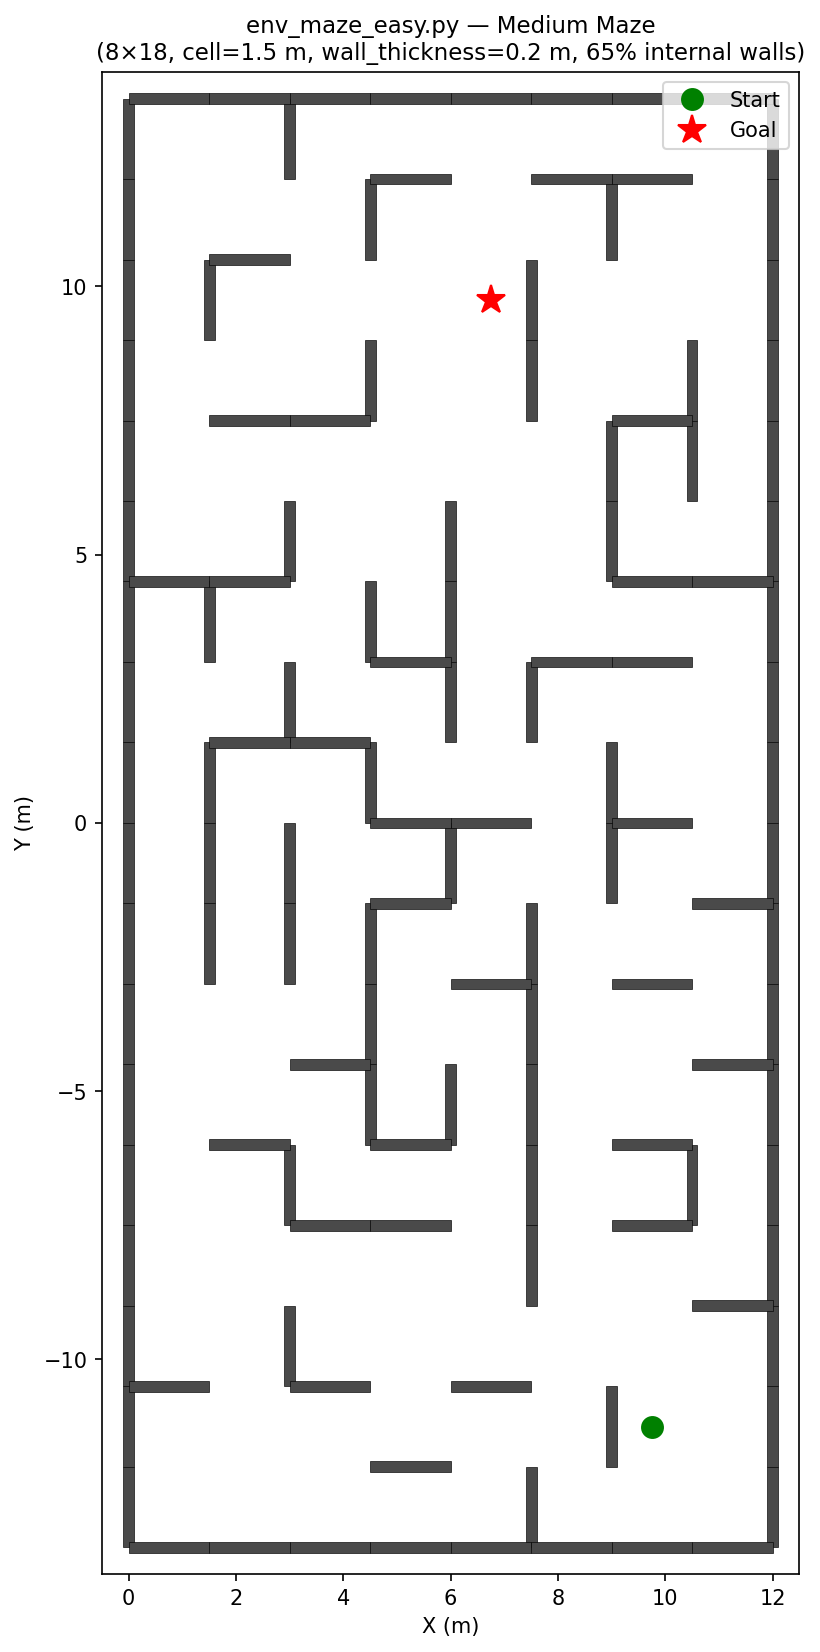
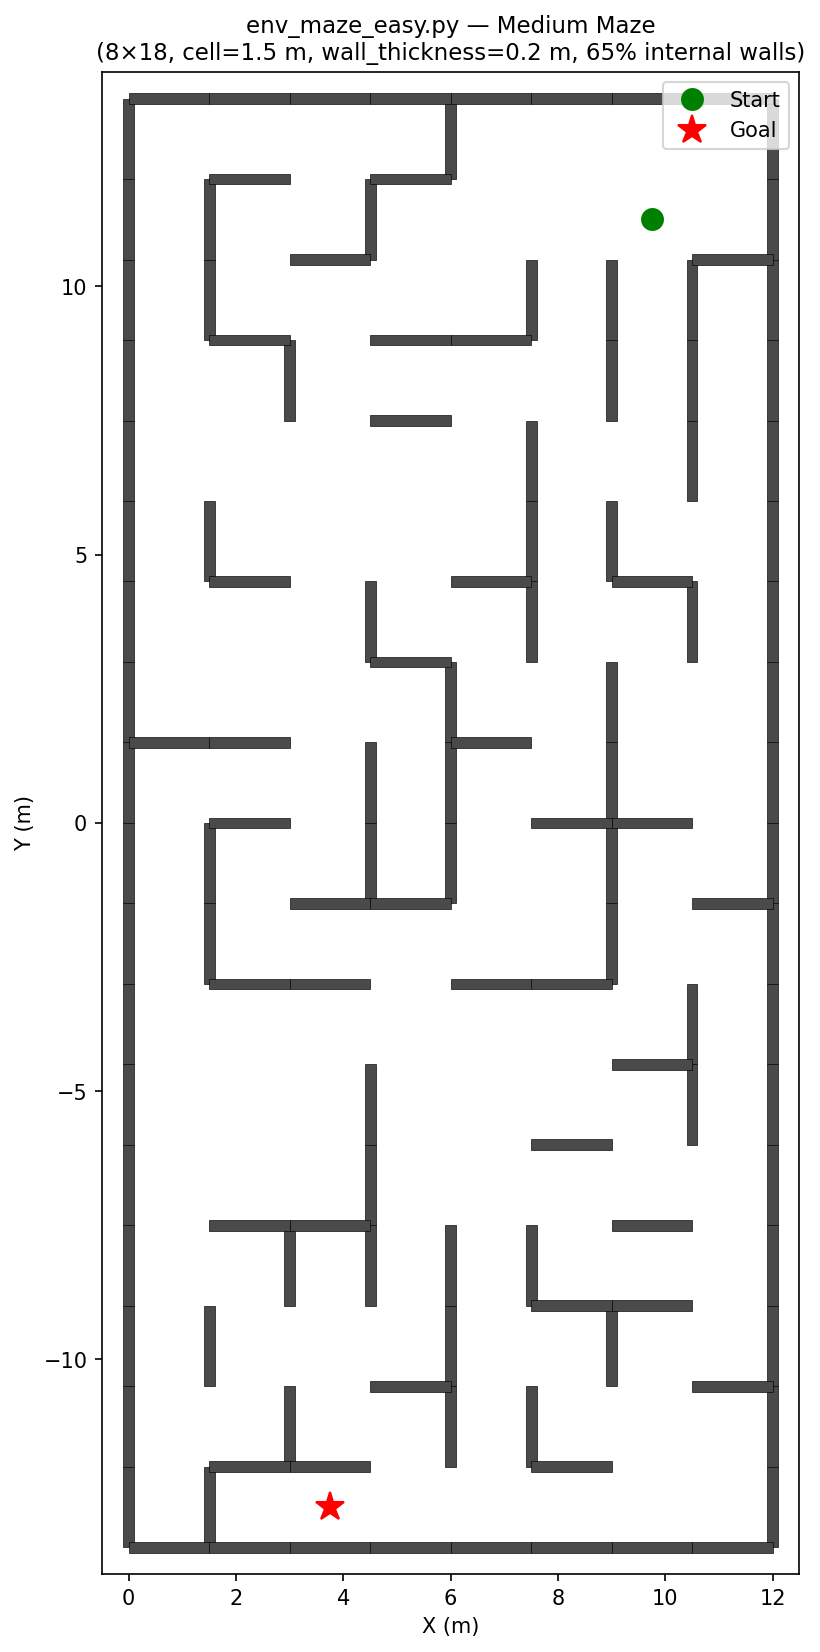
代码5.1

diff --git a/mmgj_transformer.py b/mmgj_transformer.py
@@ -70,6 +70,23 @@ class RunningMeanStd(nn.Module):
                 self.count.copy_(tot_count)
         return (x - self.mean) / torch.sqrt(self.var + self.epsilon)
 
+class LossNormalizer:
+    """Tracks running std of each loss component for scale normalization.
+    Ensures all loss components contribute equally regardless of raw magnitude.
+    Division is differentiable; statistics are detached."""
+    def __init__(self, n_losses, momentum=0.01):
+        self.running_std = [1.0] * n_losses
+        self.momentum = momentum
+
+    def normalize(self, *losses):
+        normalized = []
+        for i, loss in enumerate(losses):
+            with torch.no_grad():
+                batch_std = max(loss.std().item(), 1e-6)
+                self.running_std[i] = (1 - self.momentum) * self.running_std[i] + self.momentum * batch_std
+            normalized.append(loss / self.running_std[i])
+        return normalized
+
 ########### 1. 参数配置 ##########
 parser = argparse.ArgumentParser()
 parser.add_argument('--resume_worker', default="", help='Path to pretrained worker model')
@@ -89,9 +106,11 @@ parser.add_argument('--fov_x_half_tan', type=float, default=0.53)
 parser.add_argument('--timesteps', type=int, default=150)
 parser.add_argument('--lgn_timesteps', type=int, default=48,
                     help='Rollout steps used in LGN phase; smaller value reduces 2nd-order gradient memory')
-parser.add_argument('--detach_interval', type=int, default=8,
+parser.add_argument('--detach_interval', type=int, default=12,
                     help='Detach temporal memory every N steps to limit graph depth (<=0 disables)')
 parser.add_argument('--cam_angle', type=int, default=10)
+parser.add_argument('--goal_radius', type=float, default=0.5,
+                    help='Episode terminates when all drones are within this radius of their goal')
 
 # Transformer memory参数
 parser.add_argument('--worker_max_seq_len', type=int, default=32)
@@ -109,9 +128,9 @@ parser.add_argument('--no_odom', default=False, action='store_true')
 # 学习率
 parser.add_argument('--lr', type=float, default=1e-4)
 parser.add_argument('--lgn_lr', type=float, default=5e-4)
-parser.add_argument('--inner_lr', type=float, default=1e-4,
+parser.add_argument('--inner_lr', type=float, default=5e-3,
                     help='Inner loop LR for differentiable worker update in LGN phase')
-parser.add_argument('--inner_steps', type=int, default=1,
+parser.add_argument('--inner_steps', type=int, default=3,
                     help='Number of differentiable inner SGD steps (unrolled bilevel)')
 parser.add_argument('--exp_name', type=str, default="default", help="Extra tag for experiment")
 
@@ -181,6 +200,8 @@ optim_worker = AdamW(worknet.parameters(), args.lr)
 optim_lgn = AdamW(lgn.parameters(), args.lgn_lr)
 sched = CosineAnnealingLR(optim_worker, args.num_iters, args.lr * 0.01)
 
+loss_normalizer = LossNormalizer(5)  # normalize 5 loss components to equal scale
+
 ########## 6. 辅助函数 ##########
 scaler_q = defaultdict(list)
 
@@ -225,8 +246,12 @@ def unrolled_meta_rollout(env, worknet, fast_params, state_normalizer, args, B, 
     Validation rollout with virtually-updated worker params (via functional_call).
     Computes and returns meta_loss (position + collision + control) plus components.
     LGN is NOT needed here — meta_loss is purely task-performance based.
+    Reuses the same maze layout for consistent LGN signal.
     """
+    # [问题5] 保存迷宫布局, reset后恢复, 确保emeta评估与proxy在同一张地图上
+    saved_voxels = env.voxels
     env.reset()
+    env.voxels = saved_voxels
 
     p_list, v_list, vec_list = [], [], []
     act_buf = [env.act.detach()] * 2
@@ -266,6 +291,12 @@ def unrolled_meta_rollout(env, worknet, fast_params, state_normalizer, args, B, 
 
         env.run(real_act, ctl_dt, target_v_raw)
 
+        # Early termination when all drones reach their goals
+        with torch.no_grad():
+            _dist_to_goal_val = torch.norm(env.p - env.p_target, 2, -1)
+            if t >= 10 and (_dist_to_goal_val < args.goal_radius).all():
+                break
+
         # 周期性截断以限制显存
         if args.detach_interval > 0 and (t + 1) % args.detach_interval == 0:
             if h_val is not None:
@@ -283,8 +314,12 @@ def unrolled_meta_rollout(env, worknet, fast_params, state_normalizer, args, B, 
     m_pos  = torch.norm(p_val[-1] - env.p_target, 2, -1).mean()
     m_coll = F.softplus(-dist_val * 32.0).clamp(max=100.0).mean()
     m_ctrl = act_val.norm(2, -1).sum()
+    # [问题1] Meta rollout也加入高度惩罚
+    m_height = (F.smooth_l1_loss(p_val[:, :, 2], torch.full_like(p_val[:, :, 2], 1.0), reduction='none')
+               + F.softplus((p_val[:, :, 2] - 1.85) * 20.0)
+               + F.softplus((0.15 - p_val[:, :, 2]) * 20.0)).mean()
 
-    meta_val = m_pos + m_coll * 5.0 + m_ctrl * 0.000001
+    meta_val = m_pos + m_coll * 5.0 + m_ctrl * 0.000001 + m_height * 2.0
     return meta_val, m_pos, m_coll, m_ctrl
 
 ########## 7. 训练主循环 ##########
@@ -352,6 +387,12 @@ for i in pbar:
 
         env.run(real_act, ctl_dt, target_v_raw_curr)
 
+        # Early termination when all drones reach their goals
+        with torch.no_grad():
+            _dist_to_goal = torch.norm(env.p - env.p_target, 2, -1)
+            if t >= 10 and (_dist_to_goal < args.goal_radius).all():
+                break
+
         if args.detach_interval > 0 and (t + 1) % args.detach_interval == 0:
             if h is not None:
                 h = h.detach()
@@ -368,41 +409,72 @@ for i in pbar:
     if vec_to_pt.dim() == 4: vec_to_pt = vec_to_pt.mean(1)
     
     # 1. 计算各项 Raw Loss (保留 [T, B] 维度用于 Step-wise 加权)
-    loss_speed_seq = F.smooth_l1_loss(v_history.norm(2, -1), 
-                                      torch.ones_like(v_history.norm(2, -1)) * 5.0, 
-                                      reduction='none')
-    
+
+    # 碰撞距离 (先计算, 后续速度目标依赖它)
+    dist_obj = vec_to_pt.norm(2, -1) - env.margin  # [T, B]
+
+    # [问题3] 自适应速度目标: 近障碍物/近终点时自动减速
+    speed_actual = v_history.norm(2, -1)  # [T, B]
+    dist_to_goal = (env.p_target - p_history).norm(2, -1)  # [T, B]
+    v_max = float(env.max_speed)
+    speed_factor_obs = torch.sigmoid((dist_obj - 0.8) * 5.0)   # ~0 near wall, ~1 far
+    speed_factor_goal = torch.clamp(dist_to_goal / 1.0, 0.0, 1.0)  # 终点1m内线性减速
+    v_target_adaptive = v_max * (0.3 + 0.7 * speed_factor_obs) * speed_factor_goal
+    loss_speed_seq = F.smooth_l1_loss(speed_actual, v_target_adaptive.detach(), reduction='none')
+
     target_dir = F.normalize(env.p_target - p_history, dim=-1)
     v_dir = F.normalize(v_history, dim=-1)
     loss_direction_seq = (1.0 - (v_dir * target_dir).sum(-1))
-    
-    dist_obj = vec_to_pt.norm(2, -1) - env.margin
-    loss_avoidance_seq = F.softplus(-dist_obj * 10.0)
-    
+
+    # [问题2] 多尺度避障 + 前瞻碰撞预测
+    vec_to_pt_dir = F.normalize(vec_to_pt, dim=-1)
+    approach_speed = (v_history * vec_to_pt_dir).sum(-1)  # 正值=正在靠近障碍物
+    dist_future_02 = dist_obj - F.relu(approach_speed) * 0.2  # 0.2s前瞻
+    dist_future_04 = dist_obj - F.relu(approach_speed) * 0.4  # 0.4s前瞻
+    loss_avoidance_seq = (F.softplus(-dist_obj * 32.0) +
+                          0.5 * F.softplus(-dist_obj * 3.0) +
+                          0.3 * F.softplus(-dist_future_02 * 10.0) +
+                          0.2 * F.softplus(-dist_future_04 * 10.0))
+
     # 注意: compute_overlap_loss_per_step 返回 [B, T], 需要 permute 成 [T, B]
     loss_exploration_seq = compute_overlap_loss_per_step(p_history, sigma=1.0, time_window=50).permute(1, 0)
-    
-    # Smoothness: act_buffer 长度比 timestep 多, 取最后 rollout_steps 步
-    loss_smooth_seq = act_buffer.diff(1, 0)[-rollout_steps:].pow(2).sum(-1)
+
+    # Smoothness: act_buffer 长度比 timestep 多, 取最后 actual_T 步 (支持 early termination)
+    actual_T = p_history.shape[0]
+    loss_smooth_seq = act_buffer.diff(1, 0)[-actual_T:].pow(2).sum(-1)
+
+    # [问题1] 高度约束损失 (固定权重, 不经LGN控制)
+    z_pos = p_history[:, :, 2]  # [T, B]
+    z_target = 1.0  # 迷宫中层高度
+    z_min, z_max = 0.15, 1.85
+    loss_height_seq = (F.smooth_l1_loss(z_pos, torch.full_like(z_pos, z_target), reduction='none')
+                       + F.softplus((z_pos - z_max) * 20.0)
+                       + F.softplus((z_min - z_pos) * 20.0))
+
+    # [问题5] 归一化各损失项到相同尺度 (可微除法, stats detached)
+    loss_speed_n, loss_dir_n, loss_avoid_n, loss_expl_n, loss_smooth_n = \
+        loss_normalizer.normalize(loss_speed_seq, loss_direction_seq, loss_avoidance_seq,
+                                  loss_exploration_seq, loss_smooth_seq)
 
     # 2. Step-wise 加权 (Broadcasting: [T, B] * [T, B])
     weighted_loss_map = (
-        weights_seq[:, :, 0] * loss_speed_seq +
-        weights_seq[:, :, 1] * loss_direction_seq +
-        (weights_seq[:, :, 2] + 0.2) * loss_avoidance_seq +
-        (weights_seq[:, :, 3] + 0.1) * loss_exploration_seq +
-        weights_seq[:, :, 4] * loss_smooth_seq
+        weights_seq[:, :, 0] * loss_speed_n +
+        weights_seq[:, :, 1] * loss_dir_n +
+        (weights_seq[:, :, 2] + 0.2) * loss_avoid_n +
+        (weights_seq[:, :, 3] + 0.1) * loss_expl_n +
+        weights_seq[:, :, 4] * loss_smooth_n
     )
 
-    # 3. 最终 Proxy Loss
-    proxy_loss = weighted_loss_map.mean()
+    # 3. 最终 Proxy Loss (含固定权重的高度约束)
+    proxy_loss = weighted_loss_map.mean() + 2.0 * loss_height_seq.mean()
 
     # --- Meta Loss Components ---
     loss_meta_pos = torch.norm(p_history[-1] - env.p_target, 2, -1).mean()
     loss_meta_coll = F.softplus(-dist_obj * 32.0).clamp(max=100.0).mean()
     loss_meta_ctrl = act_buffer.norm(2, -1).sum()
+    loss_meta_height = loss_height_seq.mean()
 
-    meta_loss = loss_meta_pos + loss_meta_coll * 5.0 + loss_meta_ctrl * 0.000001
+    meta_loss = loss_meta_pos + loss_meta_coll * 5.0 + loss_meta_ctrl * 0.000001 + loss_meta_height * 2.0
 
     ###### C. Optimization ######
     optim_worker.zero_grad()
@@ -428,9 +500,12 @@ for i in pbar:
         meta_loss_unrolled, meta_pos_ur, meta_coll_ur, meta_ctrl_ur = \
             unrolled_meta_rollout(env, worknet, fast_params, state_normalizer, args, B, device)
 
-        # Step 3: 反向传播贯穿整条链路
+        # Step 3: 反向传播贯穿整条链路 + 熵正则化
         #   meta_loss → fast_params → ∇proxy_loss → LGN weights → LGN params
-        meta_loss_unrolled.backward()
+        # [问题5] 熵正则化: 鼓励LGN权重多样性, 防止坍缩
+        weight_ent = (-weights_seq * torch.log(weights_seq.clamp_min(1e-8))).sum(-1).mean()
+        lgn_total = meta_loss_unrolled - 0.1 * weight_ent
+        lgn_total.backward()
         nn.utils.clip_grad_norm_(lgn.parameters(), 1.0)
         optim_lgn.step()
 
@@ -479,11 +554,13 @@ for i in pbar:
             'Proxy_Comp/2_Avoidance': loss_avoidance_seq.mean(),
             'Proxy_Comp/3_Exploration': loss_exploration_seq.mean(),
             'Proxy_Comp/4_Smoothness': loss_smooth_seq.mean(),
+            'Proxy_Comp/5_Height': loss_height_seq.mean(),
 
             # === [增强] Meta Loss 分项 ===
             'Meta_Comp/1_Position': loss_meta_pos,
             'Meta_Comp/2_Collision': loss_meta_coll,
             'Meta_Comp/3_Control': loss_meta_ctrl,
+            'Meta_Comp/4_Height': loss_meta_height,
 
             # === 性能指标 ===
             'Metrics/Success_Rate': success.float().mean(),
@@ -491,6 +568,8 @@ for i in pbar:
             'Metrics/Speed_Below_Threshold': (avg_speed < min_speed_threshold).float(),
             'Metrics/Min_Speed': v_norm.min(),
             'Metrics/Max_Speed': v_norm.max(),
+            'Metrics/Episode_Length': actual_T,
+            'Metrics/Adaptive_Speed_Target': v_target_adaptive.mean(),
 
             # === [对齐] 归一化统计命名（与第二脚本风格一致） ===
             'Norm/State_Mean': state_normalizer.mean[0],

diff --git a/env_maze.py b/env_maze.py
@@ -217,8 +217,8 @@ class Env:
         self.p_target = torch.tensor(ends, device=device)
         self.p = p + torch.randn_like(p) * 0.1 # Add small noise to start
 
-        # Timings & Dynamics
-        self.pitch_ctl_delay = 12 + 1.2 * torch.randn((B, 1), device=device)
+        # Timings & Dynamics (pitch delay 6 for maze agility, was 12)
+        self.pitch_ctl_delay = 6 + 0.6 * torch.randn((B, 1), device=device)
         self.yaw_ctl_delay = 6 + 0.6 * torch.randn((B, 1), device=device)
 
         self.v = torch.randn((B, 3), device=device) * 0.2
@@ -229,7 +229,7 @@ class Env:
 
         R = torch.zeros((B, 3, 3), device=device)
         self.R = quadsim_cuda.update_state_vec(R, self.act, torch.randn((B, 3), device=device) * 0.2 + F.normalize(self.p_target - self.p),
-            torch.zeros_like(self.yaw_ctl_delay), 5)
+            torch.zeros_like(self.yaw_ctl_delay), 2)
         self.R_old = self.R.clone()
         self.p_old = self.p
         self.margin = torch.rand((B,), device=device) * 0.2 + 0.1
@@ -241,7 +241,7 @@ class Env:
 
     @staticmethod
     @torch.no_grad()
-    def update_state_vec(R, a_thr, v_pred, alpha, yaw_inertia=5):
+    def update_state_vec(R, a_thr, v_pred, alpha, yaw_inertia=2):
         self_forward_vec = R[..., 0]
         g_std = torch.tensor([0, 0, -9.80665], device=R.device)
         a_thr = a_thr - g_std
@@ -288,7 +288,7 @@ class Env:
         # update attitude
         alpha = torch.exp(-self.yaw_ctl_delay * ctl_dt)
         self.R_old = self.R.clone()
-        self.R = quadsim_cuda.update_state_vec(self.R, self.act, v_pred, alpha, 5)
+        self.R = quadsim_cuda.update_state_vec(self.R, self.act, v_pred, alpha, 2)
 
     def _run(self, act_pred, ctl_dt=1/15, v_pred=None):
         alpha = torch.exp(-self.pitch_ctl_delay * ctl_dt)
@@ -310,7 +310,7 @@ class Env:
         # update attitude
         alpha = torch.exp(-self.yaw_ctl_delay * ctl_dt)
         self.R_old = self.R.clone()
-        self.R = quadsim_cuda.update_state_vec(self.R, self.act, v_pred, alpha, 5)
+        self.R = quadsim_cuda.update_state_vec(self.R, self.act, v_pred, alpha, 2)
 
 
 if __name__ == '__main__':

diff --git a/LossGenNet_transformer.py b/LossGenNet_transformer.py
@@ -50,13 +50,13 @@ class LossGenNet(nn.Module):
         self.pre_norm = nn.LayerNorm(hidden_dim)
         self.out_norm = nn.LayerNorm(hidden_dim)
 
-        # 4. 输出头 (多层 MLP)
+        # 4. 输出头 (Sigmoid独立激活, 打破Softmax零和竞争)
         self.head = nn.Sequential(
             nn.Linear(hidden_dim, hidden_dim),
             nn.LeakyReLU(0.1),
             nn.Linear(hidden_dim, 5),  # [Vel, Dir, Obs, Expl, Smooth]
-            nn.Softmax(dim=-1)
         )
+        self.weight_floor = 0.05  # 每通道最小权重, 防止坍缩至0
 
     def forward(self, depth_feat, state, hx=None):
         """
@@ -95,8 +95,9 @@ class LossGenNet(nn.Module):
         x_out = self.transformer(x_in, mask=causal_mask)
         last_token = self.out_norm(x_out[:, -1])
         
-        # 5. 生成权重
-        weights = self.head(last_token)
+        # 5. 生成权重 (Sigmoid独立激活 + 下界保护)
+        raw = self.head(last_token)
+        weights = torch.sigmoid(raw) * (1.0 - self.weight_floor) + self.weight_floor
         
         # 返回 weights 和 新的记忆序列
         return weights, seq
